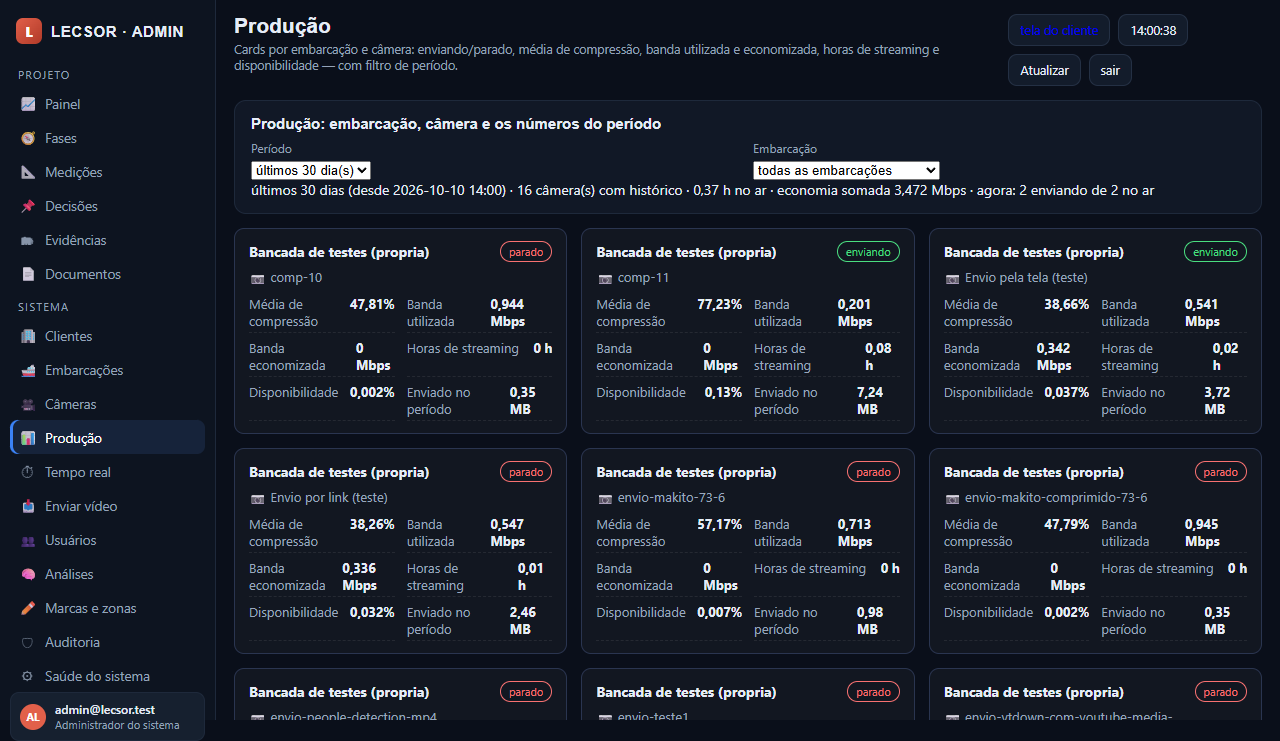
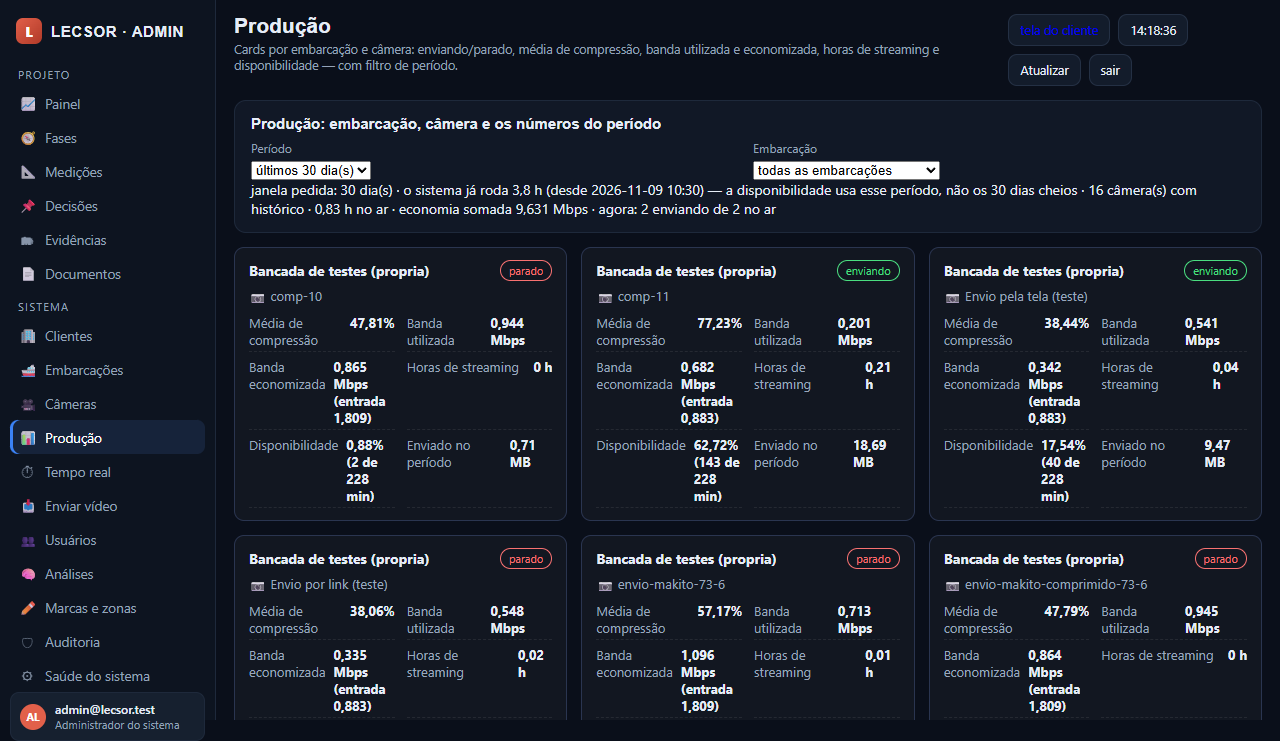
Corrige os dois numeros mentirosos dos cards de producao
- banda economizada saia 0 Mbps: o card lia a entrada na linha de ingestao (o proprio arquivo
  comprimido, 137 kbps) em vez do minuto fechado; agora usa entrada_kbps do rollup (corrigido pelo
  registro da compressao). Medido: comp-11 entrada 0,883 -> saida 0,201 = 0,682 Mbps economizados
- disponibilidade dividia por 30 dias cheios com o sistema rodando desde hoje (0,146%); passa a
  dividir pela janela efetiva (1o minuto de historico ate agora, cortada pelo periodo pedido):
  comp-11 62,72% (143 de 228 min), comp-10 0,88% (2 de 228 min)
- card mostra a conta da disponibilidade (x de y min) e o resumo declara que a janela nao e' de
  30 dias cheios
- producao.fechar_minutos: substr(a.em,1,16) no lugar de strftime (SQLite convertia o fuso para
  UTC e empurrava os minutos 3 h a frente)
- teste e2e-envios: janela efetiva < 30 dias, nenhum card com mais minutos que a janela e banda
  economizada > 0 quando ha compressao

Changed region(s): [[0.1875, 0.2483, 0.9688, 0.9933], [0.9375, 0.5897, 0.9688, 0.6518], [0.9375, 0.9312, 0.9688, 0.9622]]

diff --git a/admin/admin.js b/admin/admin.js
@@ -542,9 +542,10 @@ function telaProducao(t) {
     const itens = [
       ['Média de compressão', c.compressao_medio_pct === null ? '—' : fmt(c.compressao_medio_pct) + '%'],
       ['Banda utilizada', (c.banda_utilizada_mbps === null ? '—' : fmt(c.banda_utilizada_mbps, 3) + ' Mbps')],
-      ['Banda economizada', (c.banda_economizada_mbps === null ? '—' : fmt(c.banda_economizada_mbps, 3) + ' Mbps')],
+      ['Banda economizada', (c.banda_economizada_mbps === null ? '—' : fmt(c.banda_economizada_mbps, 3) + ' Mbps'
+        + (c.entrada_mbps ? ' (entrada ' + fmt(c.entrada_mbps, 3) + ')' : ''))],
       ['Horas de streaming', fmt(c.horas_streaming) + ' h'],
-      ['Disponibilidade', fmt(c.disponibilidade_pct, 3) + '%'],
+      ['Disponibilidade', fmt(c.disponibilidade_pct, 2) + '% (' + fmt(c.minutos_no_ar, 0) + ' de ' + fmt(A.prodJanelaMin, 0) + ' min)'],
       ['Enviado no período', fmt(c.mb_enviados) + ' MB']
     ];
     const ul = document.createElement('div'); ul.className = 'cartao-numeros';
@@ -565,7 +566,10 @@ function telaProducao(t) {
       for (const e of d.embarcacoes) selEmb.appendChild(Object.assign(document.createElement('option'), { value: e.id, textContent: e.nome || e.id }));
     }
     const tr = (d.tempo_real && d.tempo_real.total) || {};
-    dizerResumo('últimos ' + d.dias + ' dias (desde ' + (d.desde || '').replace('T', ' ') + ') · ' +
+    A.prodJanelaMin = d.janela_efetiva_min || 0;
+    const horas = (d.janela_efetiva_min || 0) / 60;
+    dizerResumo('janela pedida: ' + d.dias + ' dia(s) · o sistema já roda ' + fmt(horas, 1) + ' h (desde ' + (d.desde || '').replace('T', ' ') +
+      ') — a disponibilidade usa esse período, não os ' + d.dias + ' dias cheios · ' +
       (d.total.cards || 0) + ' câmera(s) com histórico · ' + fmt(d.total.horas_streaming) + ' h no ar · ' +
       'economia somada ' + fmt(d.total.banda_economizada_mbps, 3) + ' Mbps · ' +
       'agora: ' + (tr.enviando || 0) + ' enviando de ' + (tr.fluxos || 0) + ' no ar');

diff --git a/ground/producao.py b/ground/producao.py
@@ -78,7 +78,7 @@ def fechar_minutos(*, limpar_amostras: bool = False) -> dict:
     with conexao_banco() as c:
         linhas = [dict(x) for x in c.execute("""
             SELECT a.ingestao_id, i.fluxo_id, i.camera_id, i.bitrate_entrada_kbps, i.fonte,
-                   strftime('%Y-%m-%dT%H:%M', a.em) AS minuto,
+                   substr(a.em, 1, 16) AS minuto,   -- mantem o horario LOCAL (strftime converteria para UTC)
                    AVG(a.taxa_saida_kbps) AS saida_medio, AVG(a.corte_pct) AS corte_medio,
                    COUNT(*) AS amostras
               FROM ingestoes_amostras a JOIN ingestoes i ON i.id = a.ingestao_id
@@ -315,58 +315,77 @@ def tempo_real() -> dict:
 def resumo_producao(*, dias: int = 30, embarcacao_id: str | None = None, camera_id: str | None = None) -> dict:
     """Cards de producao: por embarcacao e por camera, com a janela pedida (padrao 30 dias).
 
-    Disponibilidade (%) = minutos em que o fluxo teve amostra / minutos da janela (por camera),
-    limitada a janela — ou seja, e' a fatia do periodo em que aquela camera esteve no ar.
+    Duas regras que o dono cobrou:
+
+    - **entrada e' a da FONTE ORIGINAL**: vem do proprio minuto fechado (`entrada_kbps`, que o rollup
+      ja corrige pelo registro da compressao). Ler a ultima ingestao daria o arquivo JA comprimido e
+      a economia apareceria como zero.
+    - **disponibilidade e' proporcional ao periodo que o sistema realmente rodou**, nunca aos 30 dias
+      cheios: se o historico comeca hoje, o denominador vai do primeiro minuto ate agora.
     """
     garantir_tabelas()
-    inicio = (datetime.now(FUSO) - timedelta(days=max(1, int(dias)))).strftime("%Y-%m-%dT%H:%M")
-    onde, par = ["minuto >= ?"], [inicio]
-    if embarcacao_id:
-        onde.append("embarcacao_id = ?"); par.append(embarcacao_id)
-    if camera_id:
-        onde.append("(camera_id = ? OR fluxo_id = ?)"); par += [camera_id, camera_id]
+    agora_dt = datetime.now(FUSO)
+    comeco_pedido = agora_dt - timedelta(days=max(1, int(dias)))
     with conexao_banco() as c:
+        primeiro = c.execute("SELECT MIN(minuto) AS m FROM telemetria_minuto").fetchone()
+        primeiro = primeiro["m"] if primeiro else None
+        onde, par = ["minuto >= ?"], [comeco_pedido.strftime("%Y-%m-%dT%H:%M")]
+        if embarcacao_id:
+            onde.append("embarcacao_id = ?"); par.append(embarcacao_id)
+        if camera_id:
+            onde.append("(camera_id = ? OR fluxo_id = ?)"); par += [camera_id, camera_id]
         linhas = [dict(x) for x in c.execute(
             f"""SELECT embarcacao_id, camera_id, fluxo_id,
                        SUM(segundos_no_ar) AS segundos, SUM(mb_enviados) AS mb,
                        AVG(compressao_pct) AS compressao_medio, COUNT(*) AS minutos,
-                       MIN(minuto) AS de, MAX(minuto) AS ate FROM telemetria_minuto
-                 WHERE {' AND '.join(onde)} GROUP BY embarcacao_id, camera_id, fluxo_id""", par)]
+                       AVG(entrada_kbps) AS entrada_medio, MIN(minuto) AS de, MAX(minuto) AS ate
+                  FROM telemetria_minuto WHERE {' AND '.join(onde)}
+                 GROUP BY embarcacao_id, camera_id, fluxo_id""", par)]
         embarcacoes = {x["id"]: dict(x) for x in c.execute("SELECT * FROM embarcacoes")}
         cameras = {x["id"]: dict(x) for x in c.execute("SELECT * FROM cameras")}
-    minutos_janela = max(1, int(dias)) * 24 * 60
+        if not embarcacao_id:
+            for l in linhas:
+                if not l["embarcacao_id"]:
+                    cam = cameras.get(l["camera_id"]) or {}
+                    l["embarcacao_id"] = cam.get("embarcacao_id") or ""
+    # janela efetiva: o pedido, cortado pelo inicio do historico
+    comeco = comeco_pedido
+    if primeiro:
+        try:
+            primeiro_dt = datetime.fromisoformat(primeiro).replace(tzinfo=FUSO) if len(primeiro) <= 16 \
+                else datetime.fromisoformat(primeiro)
+            if primeiro_dt > comeco:
+                comeco = primeiro_dt
+        except Exception:
+            pass
+    minutos_janela = max(1, int((agora_dt - comeco).total_seconds() // 60))
     ao_vivo = {f["fluxo_id"]: f["estado"] for f in tempo_real()["fluxos"]}
     cards = []
     for l in linhas:
-        entrada_kbps = 0.0
-        with conexao_banco() as c:
-            r = c.execute("SELECT bitrate_entrada_kbps FROM ingestoes WHERE fluxo_id=? ORDER BY id DESC LIMIT 1",
-                          (l["fluxo_id"],)).fetchone()
-            if r and r["bitrate_entrada_kbps"]:
-                entrada_kbps = float(r["bitrate_entrada_kbps"])
         segundos = l["segundos"] or 0
         mb = l["mb"] or 0
         saida_mbps = round(mb * 8 / segundos, 3) if segundos else None
-        entrada_mbps = round(entrada_kbps / 1000, 3) if entrada_kbps else None
+        entrada_mbps = round((l["entrada_medio"] or 0) / 1000, 3) if l["entrada_medio"] else None
         cam = cameras.get(l["camera_id"]) or {}
         emb = embarcacoes.get(l["embarcacao_id"]) or {}
+        disponibilidade = round(min(100.0, (l["minutos"] or 0) / minutos_janela * 100), 3)
         cards.append({
             "embarcacao_id": l["embarcacao_id"], "embarcacao": emb.get("nome") or l["embarcacao_id"] or "—",
             "camera_id": l["camera_id"], "camera": cam.get("rotulo") or l["camera_id"],
             "fluxo_id": l["fluxo_id"],
-            "compressao_medio_pct": round(l["compressao_medio"], 2) if l["compressao_medio"] is not None else None,
+            "compressao_medio_pct": (round(l["compressao_medio"], 2)
+                                     if (l["compressao_medio"] is not None and l["compressao_medio"] >= 0) else None),
+            "entrada_mbps": entrada_mbps,
             "banda_utilizada_mbps": saida_mbps,
             "banda_economizada_mbps": (round(max(0.0, entrada_mbps - saida_mbps), 3)
                                        if (entrada_mbps and saida_mbps) else None),
             "horas_streaming": round(segundos / 3600, 2),
             "mb_enviados": round(mb, 2),
-            "disponibilidade_pct": round(min(100.0, (l["minutos"] or 0) / minutos_janela * 100), 3),
+            "minutos_no_ar": l["minutos"] or 0,
+            "disponibilidade_pct": disponibilidade,
             "de": l["de"], "ate": l["ate"],
             "estado": ao_vivo.get(l["fluxo_id"], "parado"),
         })
-        if cards and cards[-1]["compressao_medio_pct"] is not None and cards[-1]["compressao_medio_pct"] < 0:
-            # fluxo sem registro de compressao correspondente: nao ha entrada confiavel para dizer %
-            cards[-1]["compressao_medio_pct"] = None
     cards.sort(key=lambda x: (x["embarcacao"], x["camera"]))
     tot = {
         "cards": len(cards),
@@ -375,7 +394,12 @@ def resumo_producao(*, dias: int = 30, embarcacao_id: str | None = None, camera_
         "banda_utilizada_mbps": round(sum(c["banda_utilizada_mbps"] or 0 for c in cards), 3),
         "banda_economizada_mbps": round(sum(c["banda_economizada_mbps"] or 0 for c in cards), 3),
     }
-    return {"dias": int(dias), "desde": inicio, "cards": cards, "total": tot,
+    return {"dias": int(dias), "desde": comeco.strftime("%Y-%m-%dT%H:%M"),
+            "janela_efetiva_dias": round(minutos_janela / 1440, 3), "janela_efetiva_min": minutos_janela,
+            "primeiro_minuto": primeiro, "agora": agora_dt.strftime("%Y-%m-%dT%H:%M"),
+            "cards": cards, "total": tot,
             "embarcacoes": [{"id": k, "nome": v.get("nome")} for k, v in embarcacoes.items()],
-            "nota": ("o historico comeca quando a bancada passa a fechar minuto a minuto; "
-                     "janelas maiores que o historico mostram disponibilidade menor que a real")}
+            "nota": ("disponibilidade = minutos no ar / minutos do periodo que o sistema ja rodou "
+                     "(nao dos 30 dias cheios quando o historico e' mais curto)")}
+
+

diff --git a/tests/e2e-envios.py b/tests/e2e-envios.py
@@ -268,6 +268,14 @@ def main() -> int:
            "cada card diz se a câmera está enviando ou parada")
     checar(res["dias"] == 30 and "disponibilidade_pct" in res["cards"][0],
            "a janela padrão é de 30 dias e traz disponibilidade (%)")
+    # disponibilidade proporcional ao tempo que o sistema já roda (não aos 30 dias cheios)
+    checar(res["janela_efetiva_min"] < 30 * 24 * 60,
+           f"a disponibilidade usa a janela efetiva ({res['janela_efetiva_min']} min desde {res['primeiro_minuto']}), não 30 dias cheios")
+    checar(all(c["minutos_no_ar"] <= res["janela_efetiva_min"] + 1 for c in res["cards"]),
+           "nenhum card conta mais minutos no ar do que a janela efetiva")
+    com_comp = [c for c in res["cards"] if c["compressao_medio_pct"] and c["compressao_medio_pct"] > 0]
+    checar(com_comp and all(c["banda_economizada_mbps"] is None or c["banda_economizada_mbps"] > 0 for c in com_comp),
+           "banda economizada não aparece como 0 quando há compressão (usa a entrada original)")
     lk = prod.link_srt()
     checar("disponivel" in lk, "o link é lido do SRT (RTT, capacidade, atraso do buffer, perda)")
     if lk.get("disponivel"):

diff --git a/ground/EVIDENCIA-envio-video-teste.md b/ground/EVIDENCIA-envio-video-teste.md
@@ -247,3 +247,26 @@ Sem ARROW e sem Dock Check, como o dono decidiu. O que já está escrito no repo
   na bancada (`--simular`): 270 minutos de histórico montados com o link e o ping dentro.
 - GitHub: o repo está em `master` com 31 commits e **sem remote**; falta criar o repositório e apontar
   o remote quando o dono passar os dados.
+
+## Correção dos cards de produção (09/11/2026, achado do dono)
+
+O dono apontou dois números mentirosos no card (`comp-11`, "Banda economizada 0 Mbps",
+"Disponibilidade 0,146%"):
+
+1. **Banda economizada saía 0** mesmo com 77,23% de compressão. Causa: o card lia a entrada na
+   **linha de ingestão**, que para um arquivo já comprimido publicado é o próprio comprimido
+   (137 kbps) — menor que a saída (201 kbps) → economia zero. Agora a entrada vem do **minuto
+   fechado** (`entrada_kbps`), que o rollup já corrige pelo registro da compressão: medido
+   `comp-11` entrada 0,883 → saída 0,201 = **0,682 Mbps economizados**.
+2. **Disponibilidade dividia por 30 dias cheios** mesmo com o sistema rodando desde hoje
+   (0,146%). Agora o denominador é a **janela efetiva**: do primeiro minuto de histórico até agora,
+   cortada pelo período pedido. Medido: janela de **228 min** (desde 2026-11-09 10:30) →
+   `comp-11` **62,72% (143 de 228 min)**, `comp-10` 0,88% (2 de 228 min). O card mostra a conta
+   ("143 de 228 min") e o resumo explica que a janela não é de 30 dias cheios.
+
+Erro de base encontrado no caminho: `strftime('%Y-%m-%dT%H:%M', a.em)` no SQLite **converte o
+horário com fuso para UTC**, empurrando os minutos 3 h para frente e estourando a janela; trocado por
+`substr(a.em, 1, 16)`, que preserva o horário local.
+
+O servidor de API precisa ser **reiniciado** depois de mexer em `ground/producao.py` (o módulo é
+importado uma vez), senão o painel continua mostrando os números antigos com o código novo na tela.
